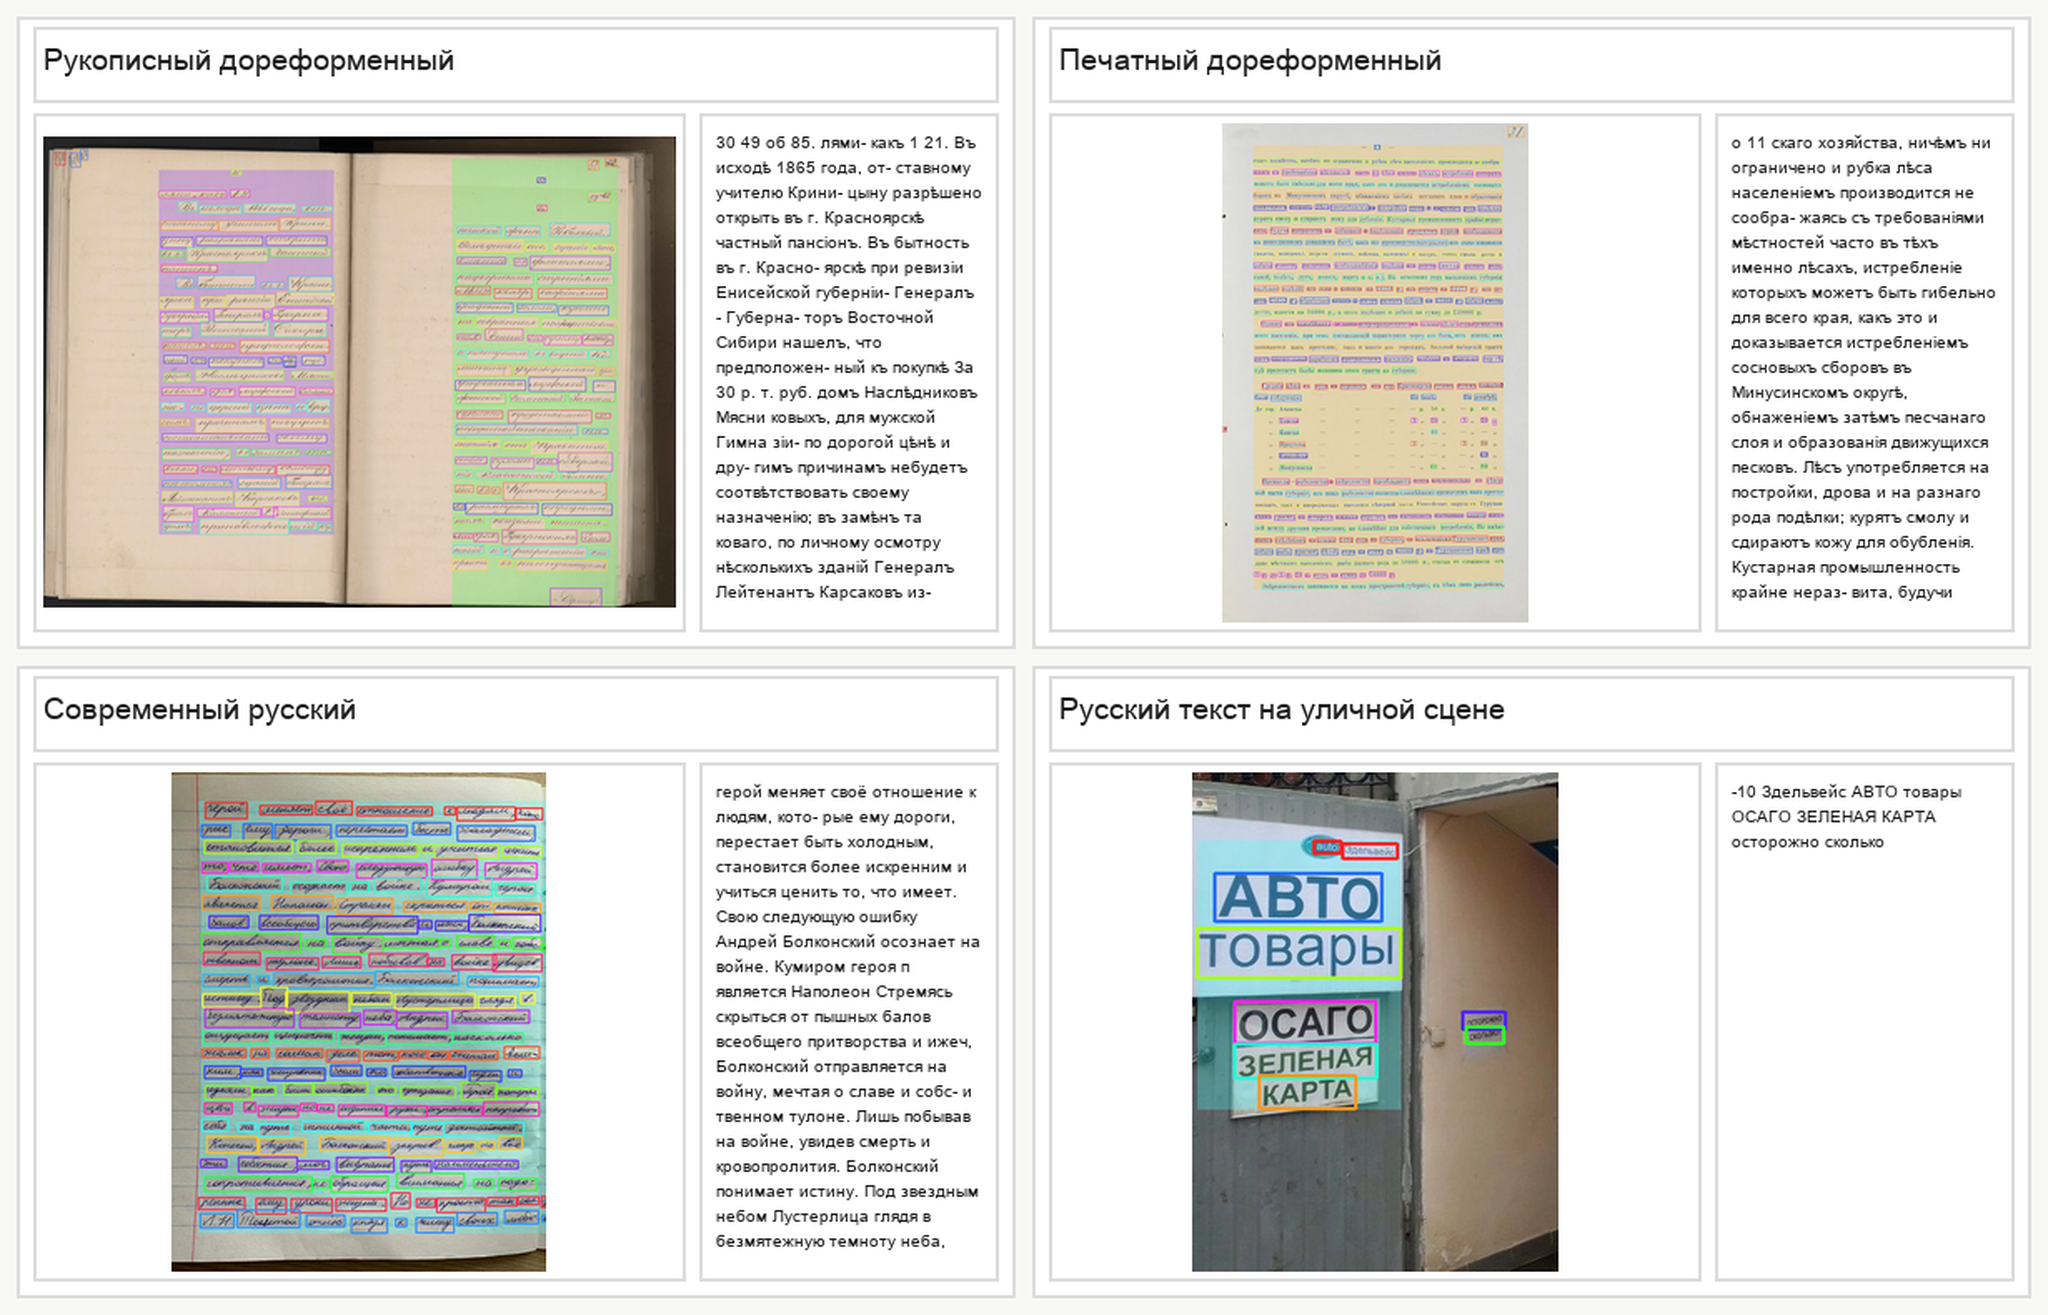
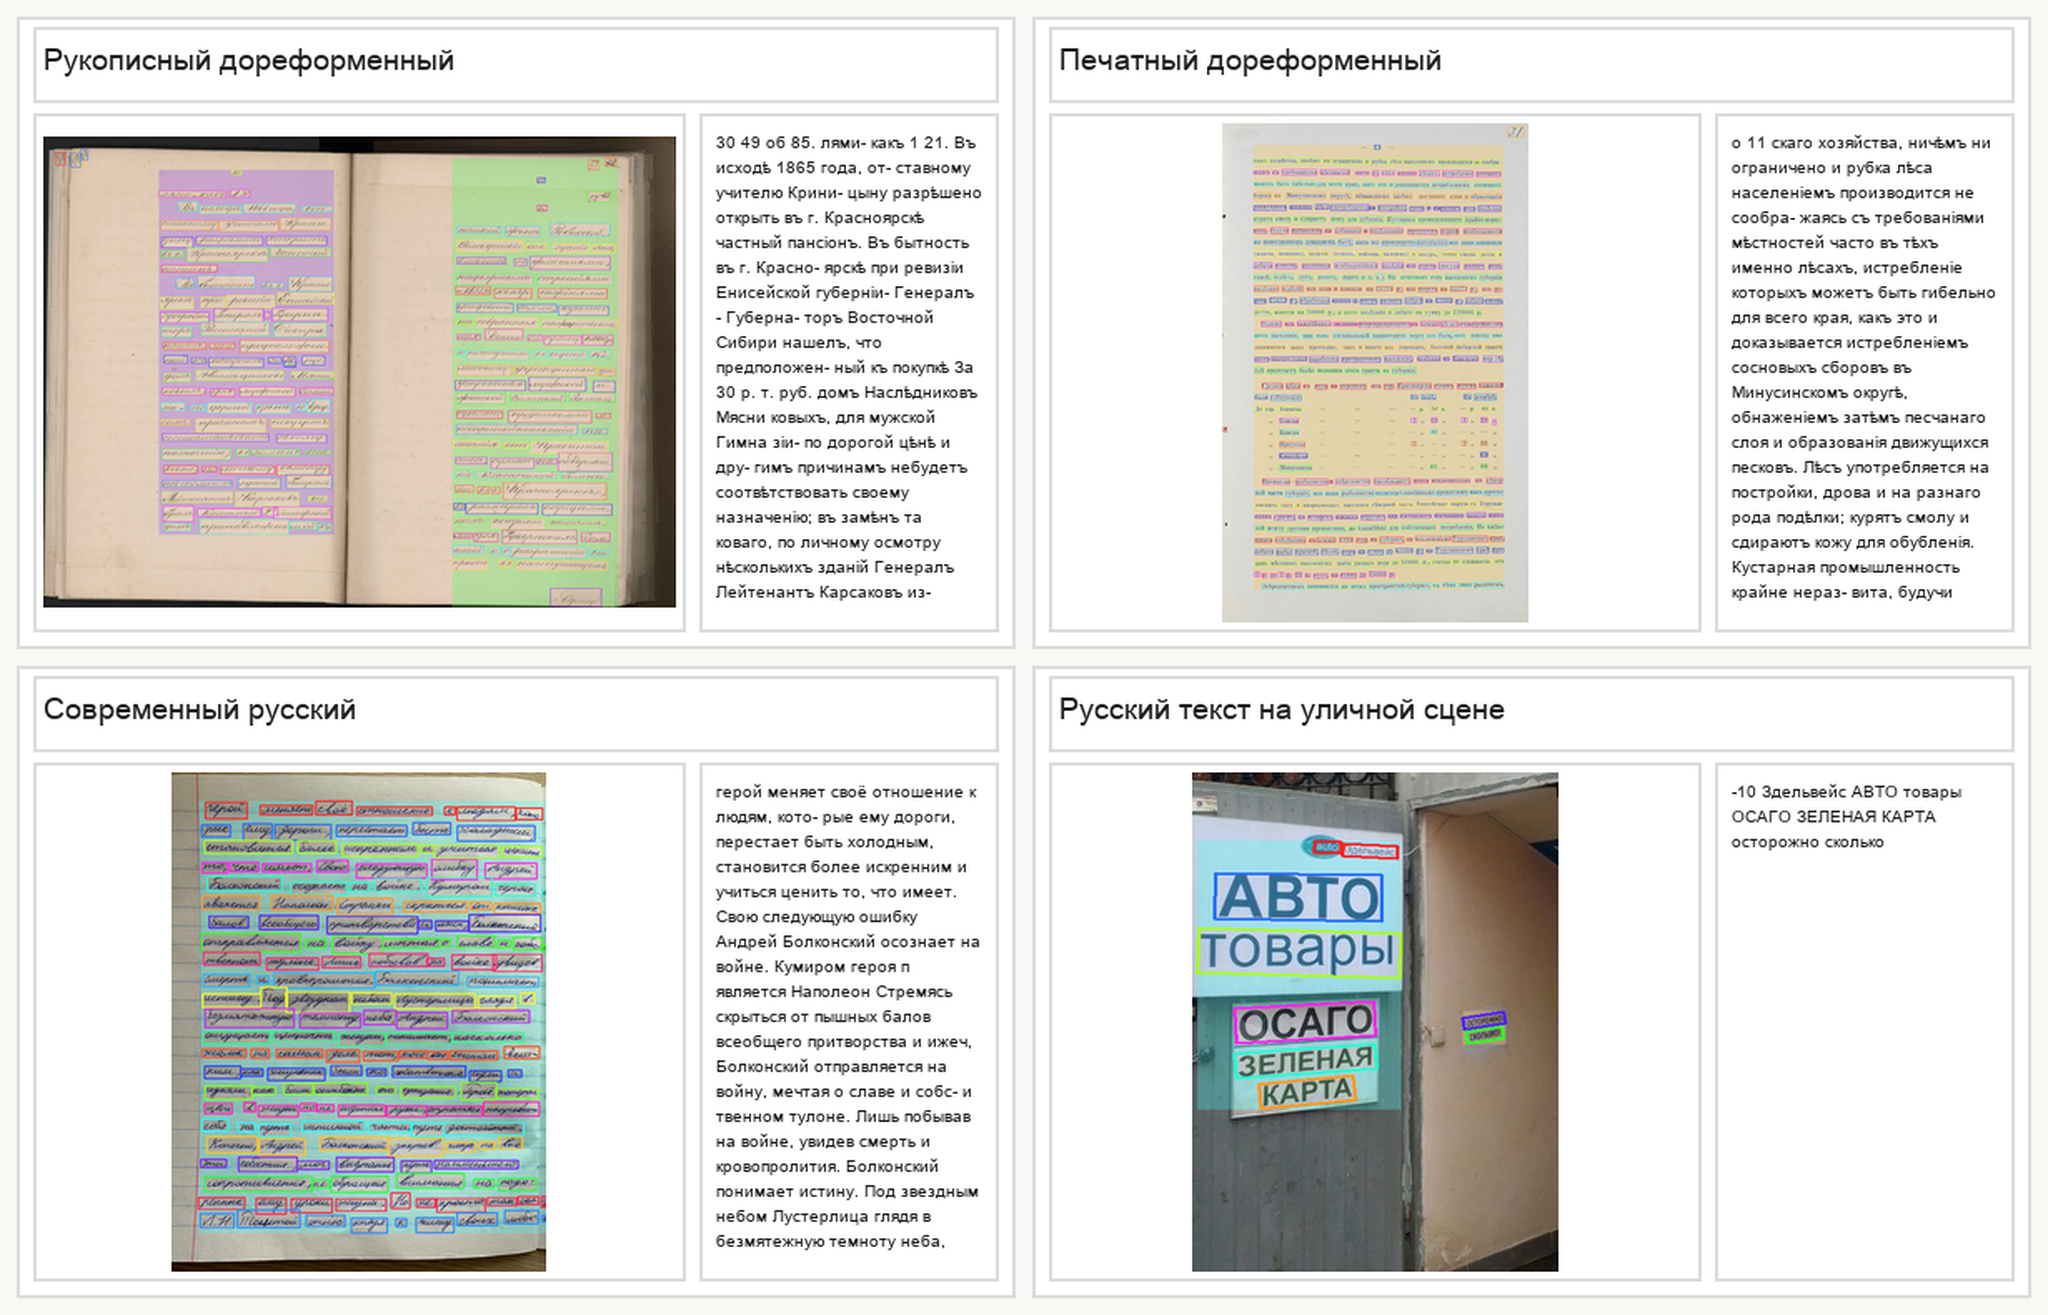
Organize example images and update collage generation

Changed region(s): [[0.5625, 0.6548, 0.6875, 0.8418], [0.7188, 0.7483, 0.75, 0.8106], [0.6562, 0.6236, 0.6875, 0.6548]]

diff --git a/example/create_collages.py b/example/create_collages.py
@@ -7,8 +7,7 @@ from manuscript import Pipeline
 from manuscript.utils import visualize_page
 
 
-IMAGE_SUFFIXES = {".jpg", ".jpeg", ".png", ".bmp", ".tif", ".tiff", ".webp"}
-DEFAULT_INPUT_DIR = Path(__file__).resolve().parent / "images"
+DEFAULT_INPUT_DIR = Path(__file__).resolve().parent / "images" / "full"
 DEFAULT_OUTPUT_DIR = Path(__file__).resolve().parent / "collages"
 DEFAULT_OUTPUT_FILE = DEFAULT_OUTPUT_DIR / "example_images_collage.png"
 BACKGROUND = (248, 248, 245)
@@ -31,23 +30,14 @@ IMAGE_CELL_WIDTH = 380
 IMAGE_CELL_HEIGHT = 300
 TEXT_PANEL_WIDTH = 180
 TEXT_LINE_SPACING = 1
-SHOW_ORDER = True
+NUMBERS_LEVELS = [1, 2]
 OUTPUT_WIDTH = 2048
 COLLAGE_ITEMS = [
-    (0, "Рукописный дореформенный"),
-    (1, "Печатный дореформенный"),
-    (2, "Современный русский"),
-    (4, "Русский текст на уличной сцене"),
+    ("img1.jpeg", "Рукописный дореформенный"),
+    ("img2.jpeg", "Печатный дореформенный"),
+    ("img3.jpeg", "Современный русский"),
+    ("img5.jpeg", "Русский текст на уличной сцене"),
 ]
-
-
-def iter_images(input_dir: Path) -> list[Path]:
-    image_paths = sorted(
-        path
-        for path in input_dir.iterdir()
-        if path.is_file() and path.suffix.lower() in IMAGE_SUFFIXES
-    )
-    return image_paths
 
 
 def load_font(font_size: int) -> ImageFont.FreeTypeFont | ImageFont.ImageFont:
@@ -250,16 +240,14 @@ def resize_output(image: Image.Image, target_width: int) -> Image.Image:
 def build_visualization(
     pipeline: Pipeline,
     image_path: Path,
-    show_order: bool,
+    numbers_levels: list[int],
 ) -> tuple[Image.Image, str]:
     result = pipeline.predict(image_path)
     page = result["page"]
     vis_image = visualize_page(
         image_path,
         page,
-        show_order=show_order,
-        show_lines=False,
-        show_numbers=False,
+        numbers_levels=numbers_levels,
     ).convert("RGB")
     text = pipeline.get_text(page)
     return vis_image, text
@@ -347,27 +335,21 @@ def main() -> None:
     if not input_dir.is_dir():
         raise NotADirectoryError(f"Input path is not a directory: {input_dir}")
 
-    image_paths = iter_images(input_dir)
-    if not image_paths:
-        raise FileNotFoundError(f"No images found in: {input_dir}")
-    card_count = len(COLLAGE_ITEMS)
-    required_image_count = max(index for index, _ in COLLAGE_ITEMS) + 1
-    if len(image_paths) < required_image_count:
-        raise ValueError(
-            f"Expected at least {required_image_count} images in {input_dir}, got {len(image_paths)}."
-        )
+    for filename, _ in COLLAGE_ITEMS:
+        if not (input_dir / filename).is_file():
+            raise FileNotFoundError(f"Missing collage image: {input_dir / filename}")
 
     pipeline = Pipeline()
     title_font = load_font(TITLE_FONT_SIZE)
     text_font = load_font(TEXT_FONT_SIZE)
     cards: list[tuple[str, Image.Image, str]] = []
 
-    for image_index, title in COLLAGE_ITEMS:
-        image_path = image_paths[image_index]
+    for filename, title in COLLAGE_ITEMS:
+        image_path = input_dir / filename
         vis_image, text = build_visualization(
             pipeline=pipeline,
             image_path=image_path,
-            show_order=SHOW_ORDER,
+            numbers_levels=NUMBERS_LEVELS,
         )
         cards.append((title, vis_image, text))
 
